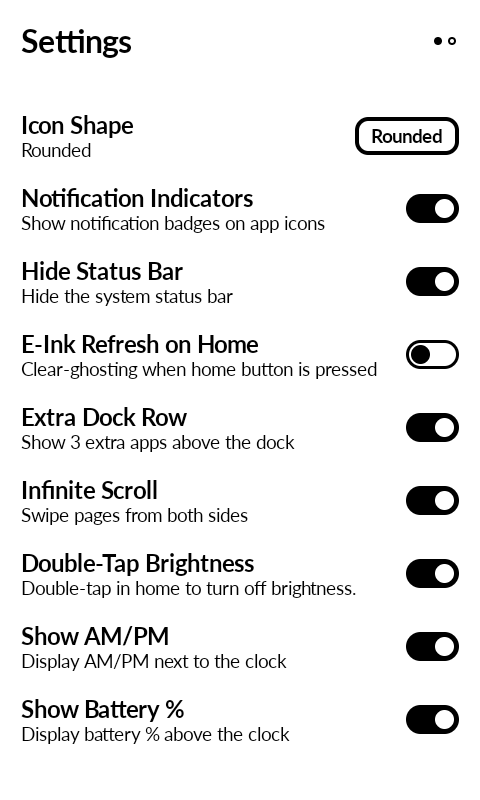
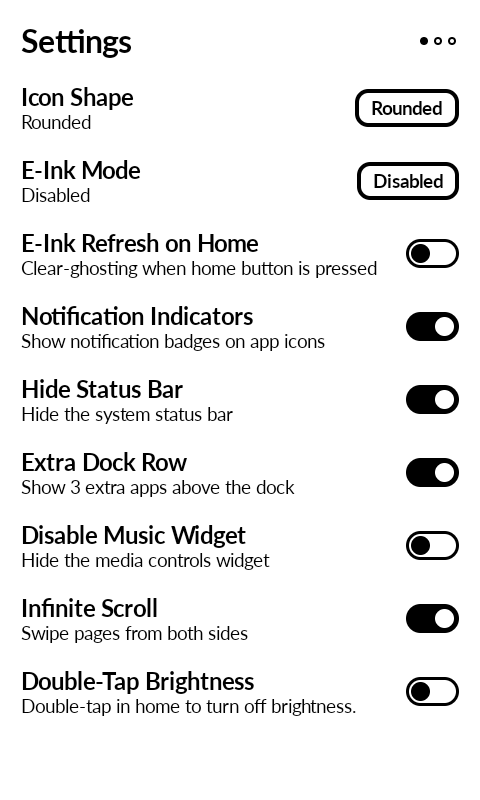
Release v1.2
- Clock Format & Date Format settings (replaces Show AM/PM toggle)
- Home button now dismisses open bottom sheets
- Disable Music Widget setting
- Bundled icons for Discord and Libro.fm
- Site, version (code 3 / name 1.2), and APK name updated

Changed region(s): [[0.0312, 0.0938, 0.7812, 0.9375], [0.7188, 0.0938, 0.9688, 0.9375], [0.875, 0.0312, 0.9062, 0.0625]]

diff --git a/app/src/main/java/com/gezimos/katapult/ui/SettingsScreen.kt b/app/src/main/java/com/gezimos/katapult/ui/SettingsScreen.kt
@@ -53,6 +53,19 @@ import com.gezimos.katapult.util.EinkHelper
 import com.gezimos.katapult.util.IconUtility
 import kotlin.math.abs
 
+// "system" follows the device setting/locale; everything else is a SimpleDateFormat pattern.
+private val ClockFormats = listOf("system", "HH:mm", "hh:mm a", "h:mm a", "h:mm")
+private val DateFormats = listOf("system", "EEE, MMM d", "EEEE, MMMM d", "MMMM d, yyyy", "M/d/yyyy", "yyyy-MM-dd")
+
+private fun nextOf(options: List<String>, current: String): String {
+    val i = options.indexOf(current)
+    return options[(i + 1) % options.size]
+}
+
+private fun formatLabel(pattern: String): String =
+    if (pattern == "system") "System"
+    else java.text.SimpleDateFormat(pattern, java.util.Locale.getDefault()).format(java.util.Date())
+
 @Composable
 fun SettingsScreen(viewModel: MainViewModel) {
     val context = LocalContext.current
@@ -65,7 +78,8 @@ fun SettingsScreen(viewModel: MainViewModel) {
     }
 
     var notificationIndicators by remember { mutableStateOf(prefs.notificationIndicators) }
-    var showAmPm by remember { mutableStateOf(prefs.showAmPm) }
+    var clockFormat by remember { mutableStateOf(prefs.clockFormat) }
+    var dateFormat by remember { mutableStateOf(prefs.dateFormat) }
     var showBattery by remember { mutableStateOf(prefs.showBattery) }
     var roundedIcons by remember { mutableStateOf(prefs.roundedIcons) }
     var hideStatusBar by remember { mutableStateOf(prefs.hideStatusBar) }
@@ -73,6 +87,7 @@ fun SettingsScreen(viewModel: MainViewModel) {
     var einkHelperMode by remember { mutableIntStateOf(prefs.einkHelperMode) }
     var doubleTapBrightness by remember { mutableStateOf(prefs.doubleTapBrightness) }
     var homeExtraRow by remember { mutableStateOf(prefs.homeExtraRow) }
+    var disableMusicWidget by remember { mutableStateOf(prefs.disableMusicWidget) }
     var infiniteScroll by remember { mutableStateOf(prefs.infiniteScroll) }
     var showKatapultIcon by remember { mutableStateOf(prefs.showKatapultIcon) }
     var hideAppNames by remember { mutableStateOf(prefs.hideAppNames) }
@@ -231,6 +246,17 @@ fun SettingsScreen(viewModel: MainViewModel) {
             }
             add {
                 SettingsToggleRow(
+                    title = stringResource(R.string.disable_music_widget),
+                    description = stringResource(R.string.disable_music_widget_desc),
+                    checked = disableMusicWidget,
+                    onCheckedChange = {
+                        disableMusicWidget = it
+                        prefs.disableMusicWidget = it
+                    },
+                )
+            }
+            add {
+                SettingsToggleRow(
                     title = stringResource(R.string.infinite_scroll),
                     description = stringResource(R.string.infinite_scroll_desc),
                     checked = infiniteScroll,
@@ -252,13 +278,24 @@ fun SettingsScreen(viewModel: MainViewModel) {
                 )
             }
             add {
-                SettingsToggleRow(
-                    title = stringResource(R.string.show_ampm),
-                    description = stringResource(R.string.show_ampm_desc),
-                    checked = showAmPm,
-                    onCheckedChange = {
-                        showAmPm = it
-                        prefs.showAmPm = it
+                SettingsCycleRow(
+                    title = stringResource(R.string.clock_format),
+                    description = formatLabel(clockFormat),
+                    onClick = {
+                        clockFormat = nextOf(ClockFormats, clockFormat)
+                        prefs.clockFormat = clockFormat
+                        viewModel.updateClock()
+                    },
+                )
+            }
+            add {
+                SettingsCycleRow(
+                    title = stringResource(R.string.date_format),
+                    description = formatLabel(dateFormat),
+                    onClick = {
+                        dateFormat = nextOf(DateFormats, dateFormat)
+                        prefs.dateFormat = dateFormat
+                        viewModel.updateClock()
                     },
                 )
             }

diff --git a/app/src/main/java/com/gezimos/katapult/util/PrefsManager.kt b/app/src/main/java/com/gezimos/katapult/util/PrefsManager.kt
@@ -94,9 +94,15 @@ class PrefsManager(context: Context) {
         get() = prefs.getBoolean(KEY_NOTIFICATION_INDICATORS, true)
         set(value) = prefs.edit().putBoolean(KEY_NOTIFICATION_INDICATORS, value).apply()
 
-    var showAmPm: Boolean
-        get() = prefs.getBoolean(KEY_SHOW_AMPM, true)
-        set(value) = prefs.edit().putBoolean(KEY_SHOW_AMPM, value).apply()
+    // SimpleDateFormat pattern, or "system" to follow the device's 12/24h setting.
+    var clockFormat: String
+        get() = prefs.getString(KEY_CLOCK_FORMAT, "system") ?: "system"
+        set(value) = prefs.edit().putString(KEY_CLOCK_FORMAT, value).apply()
+
+    // SimpleDateFormat pattern, or "system" for the locale long date.
+    var dateFormat: String
+        get() = prefs.getString(KEY_DATE_FORMAT, "system") ?: "system"
+        set(value) = prefs.edit().putString(KEY_DATE_FORMAT, value).apply()
 
     var showBattery: Boolean
         get() = prefs.getBoolean(KEY_SHOW_BATTERY, false)
@@ -133,6 +139,10 @@ class PrefsManager(context: Context) {
     var homeExtraRow: Boolean
         get() = prefs.getBoolean(KEY_HOME_EXTRA_ROW, false)
         set(value) = prefs.edit().putBoolean(KEY_HOME_EXTRA_ROW, value).apply()
+
+    var disableMusicWidget: Boolean
+        get() = prefs.getBoolean(KEY_DISABLE_MUSIC_WIDGET, false)
+        set(value) = prefs.edit().putBoolean(KEY_DISABLE_MUSIC_WIDGET, value).apply()
 
     var showKatapultIcon: Boolean
         get() = prefs.getBoolean(KEY_SHOW_KATAPULT_ICON, false)
@@ -208,7 +218,8 @@ class PrefsManager(context: Context) {
     companion object {
         private const val KEY_APP_ORDER = "app_order"
         private const val KEY_NOTIFICATION_INDICATORS = "notification_indicators"
-        private const val KEY_SHOW_AMPM = "show_ampm"
+        private const val KEY_CLOCK_FORMAT = "clock_format"
+        private const val KEY_DATE_FORMAT = "date_format"
         private const val KEY_SHOW_BATTERY = "show_battery"
         private const val KEY_ROUNDED_ICONS = "rounded_icons"
         private const val KEY_HIDE_STATUS_BAR = "hide_status_bar"
@@ -218,6 +229,7 @@ class PrefsManager(context: Context) {
         private const val KEY_LAST_BRIGHTNESS = "last_brightness"
         private const val KEY_INFINITE_SCROLL = "infinite_scroll"
         private const val KEY_HOME_EXTRA_ROW = "home_extra_row"
+        private const val KEY_DISABLE_MUSIC_WIDGET = "disable_music_widget"
         private const val KEY_WALLPAPER_PATH = "wallpaper_path"
         private const val KEY_HIDDEN_APPS = "hidden_apps"
         private const val KEY_RENAME_PREFIX = "rename_"

diff --git a/app/src/main/java/com/gezimos/katapult/MainViewModel.kt b/app/src/main/java/com/gezimos/katapult/MainViewModel.kt
@@ -21,6 +21,8 @@ import android.os.Looper
 import android.provider.Telephony
 import android.text.format.DateFormat
 import android.view.WindowInsetsController
+import java.text.SimpleDateFormat
+import java.util.Locale
 import com.gezimos.katapult.util.AudioWidgetHelper
 import androidx.compose.runtime.getValue
 import androidx.lifecycle.viewModelScope
@@ -53,6 +55,8 @@ class MainViewModel(application: Application) : AndroidViewModel(application) {
     var reorderMode by mutableStateOf(false)
     var reorderHighlightIndex by mutableIntStateOf(-1)
     var iconOverrideTarget by mutableStateOf<String?>(null)
+    var sheetDismissSignal by mutableIntStateOf(0)
+        private set
     var orderedApps by mutableStateOf(listOf<AppModel>())
         private set
     var currentPage by mutableIntStateOf(0)
@@ -128,7 +132,9 @@ class MainViewModel(application: Application) : AndroidViewModel(application) {
 
     fun updateClock() {
         val now = Date()
-        val fullTime = DateFormat.getTimeFormat(ctx).format(now)
+        val clockPattern = prefs.clockFormat
+        val fullTime = if (clockPattern == "system") DateFormat.getTimeFormat(ctx).format(now)
+            else SimpleDateFormat(clockPattern, Locale.getDefault()).format(now)
         clockTime = fullTime.replace(Regex("\\s*[AaPp][Mm]\\s*"), "").trim()
         val upper = fullTime.uppercase()
         clockAmPm = when {
@@ -136,7 +142,9 @@ class MainViewModel(application: Application) : AndroidViewModel(application) {
             upper.contains("PM") -> "PM"
             else -> null
         }
-        clockDate = DateFormat.getLongDateFormat(ctx).format(now)
+        val datePattern = prefs.dateFormat
+        clockDate = if (datePattern == "system") DateFormat.getLongDateFormat(ctx).format(now)
+            else SimpleDateFormat(datePattern, Locale.getDefault()).format(now)
 
         val alarmManager = ctx.getSystemService(Context.ALARM_SERVICE) as AlarmManager
         val info = alarmManager.nextAlarmClock
@@ -204,6 +212,11 @@ class MainViewModel(application: Application) : AndroidViewModel(application) {
         if (reorderMode) finishReorder()
         if (target == Screen.ALL_APPS) currentPage = 0
         screen = target
+    }
+
+    /** Bumps a signal observed by every open BottomSheet so they dismiss themselves. */
+    fun dismissAllSheets() {
+        sheetDismissSignal++
     }
 
 

diff --git a/docs/index.html b/docs/index.html
@@ -37,7 +37,7 @@
             <h1>A simple launcher for the <strong>Mudita Kompakt</strong></h1>
             <p class="subtitle">Similar to the default launcher, but with notification indicators, app re-ordering, and customizable home screen shortcuts.</p>
             <div class="hero-actions">
-                <a href="https://github.com/gezimos/Katapult/releases/download/v1.1/katapult-v1.1-release.apk" class="btn">Download APK</a>
+                <a href="https://github.com/gezimos/Katapult/releases/download/v1.2/katapult-v1.2-release.apk" class="btn">Download APK</a>
                 <a href="https://github.com/gezimos/Katapult/releases" class="btn">All Releases</a>
                 <a href="https://github.com/gezimos/Katapult" class="btn">Source Code</a>
             </div>
@@ -102,7 +102,7 @@
                 </div>
                 <div class="card">
                     <h3>Battery &amp; Clock</h3>
-                    <p>Battery percentage with level icon, alarm indicator, AM/PM display.</p>
+                    <p>Battery percentage with level icon, alarm indicator, selectable clock &amp; date formats.</p>
                 </div>
                 <div class="card">
                     <h3>Simple Wallpaper</h3>
@@ -207,7 +207,7 @@
                 </details>
                 <details>
                     <summary>Can I change date/clock formats?</summary>
-                    <p>No. It follows the system format. Change it in Android Settings.</p>
+                    <p>Yes. In Settings, cycle <strong>Clock Format</strong> (System, 24-hour, or 12-hour with/without AM/PM) and <strong>Date Format</strong> (System, weekday, long, numeric, or ISO). Leave them on System to follow Android.</p>
                 </details>
                 <details>
                     <summary>Can I reorder apps?</summary>

diff --git a/app/src/main/java/com/gezimos/katapult/ui/HomeScreen.kt b/app/src/main/java/com/gezimos/katapult/ui/HomeScreen.kt
@@ -234,7 +234,7 @@ fun HomeScreen(viewModel: MainViewModel, imagePicker: ActivityResultLauncher<Str
                         color = Color.Black,
                         modifier = Modifier,
                     )
-                    if (viewModel.clockAmPm != null && viewModel.prefs.showAmPm) {
+                    if (viewModel.clockAmPm != null) {
                         Spacer(Modifier.width(4.dp))
                         Text(
                             text = viewModel.clockAmPm!!,
@@ -267,7 +267,7 @@ fun HomeScreen(viewModel: MainViewModel, imagePicker: ActivityResultLauncher<Str
             }
 
             // Music widget - aligned with app icon edges
-            if (viewModel.mediaInfo != null) {
+            if (viewModel.mediaInfo != null && !viewModel.prefs.disableMusicWidget) {
                 @Suppress("UnusedBoxWithConstraintsScope")
                 androidx.compose.foundation.layout.BoxWithConstraints(
                     modifier = Modifier

diff --git a/app/src/main/java/com/gezimos/katapult/ui/BottomSheet.kt b/app/src/main/java/com/gezimos/katapult/ui/BottomSheet.kt
@@ -29,6 +29,7 @@ import androidx.compose.foundation.layout.padding
 import androidx.compose.runtime.Composable
 import androidx.compose.runtime.CompositionContext
 import androidx.compose.runtime.DisposableEffect
+import androidx.compose.runtime.LaunchedEffect
 import androidx.compose.runtime.SideEffect
 import androidx.compose.runtime.getValue
 import androidx.compose.runtime.mutableStateOf
@@ -124,6 +125,15 @@ fun BottomSheet(
 
     SideEffect {
         sheetDialog.updateOnDismiss(onDismiss)
+    }
+
+    // Dismiss when the shared signal bumps (e.g. Home button press). Skip the initial
+    // value so a sheet opened after a prior signal bump isn't instantly closed.
+    val dismissSignal = LocalSheetDismissSignal.current
+    val initialSignal = remember { dismissSignal }
+    val latestOnDismiss by rememberUpdatedState(onDismiss)
+    LaunchedEffect(dismissSignal) {
+        if (dismissSignal != initialSignal) latestOnDismiss()
     }
 }
 

diff --git a/app/src/main/java/com/gezimos/katapult/util/IconUtility.kt b/app/src/main/java/com/gezimos/katapult/util/IconUtility.kt
@@ -52,6 +52,9 @@ object IconUtility {
         "com.android.documentsui" to R.drawable.files,
         "de.danoeh.antennapod" to R.drawable.ap,
         "dev.octoshrimpy.quik" to R.drawable.sms,
+        "com.message.ink" to R.drawable.sms,
+        "com.discord" to R.drawable.discord,
+        "fm.libro.librofm" to R.drawable.librofm,
         "org.schabi.newpipe" to R.drawable.newpipe,
         "org.fossify.musicplayer" to R.drawable.music,
         "org.oxycblt.auxio" to R.drawable.music,
@@ -113,6 +116,8 @@ object IconUtility {
         BundledIcon(R.drawable.sudoku, "sudoku", "Sudoku"),
         BundledIcon(R.drawable.video, "video", "Video"),
         BundledIcon(R.drawable.einkbro, "einkbro", "Einkbro"),
+        BundledIcon(R.drawable.discord, "discord", "Discord"),
+        BundledIcon(R.drawable.librofm, "librofm", "Libro.fm"),
     )
 
     private fun resolveBundled(resName: String): Int? =

diff --git a/app/src/main/java/com/gezimos/katapult/ui/Components.kt b/app/src/main/java/com/gezimos/katapult/ui/Components.kt
@@ -135,6 +135,8 @@ fun Modifier.dashedDotBorder(strokeWidth: Dp = 2.dp, isRounded: Boolean, outset:
 }
 val LocalIconShape = compositionLocalOf<Shape> { CircleShape }
 val LocalSmallIconShape = compositionLocalOf<Shape> { CircleShape }
+/** Incremented to signal all open bottom sheets to dismiss (e.g. on Home press). */
+val LocalSheetDismissSignal = compositionLocalOf { 0 }
 
 @Composable
 fun AppIconCircle(bitmap: Bitmap?, size: Dp, borderWidth: Dp = 2.5.dp, shape: Shape = LocalIconShape.current) {

diff --git a/app/src/main/java/com/gezimos/katapult/ui/App.kt b/app/src/main/java/com/gezimos/katapult/ui/App.kt
@@ -28,6 +28,7 @@ fun App(
         LocalIconShape provides iconShape,
         LocalSmallIconShape provides smallShape,
         LocalBadgeShape provides badgeShape,
+        LocalSheetDismissSignal provides viewModel.sheetDismissSignal,
     ) {
         when (viewModel.screen) {
             Screen.ONBOARDING -> OnboardingScreen(viewModel)

diff --git a/app/src/main/java/com/gezimos/katapult/MainActivity.kt b/app/src/main/java/com/gezimos/katapult/MainActivity.kt
@@ -86,6 +86,7 @@ class MainActivity : ComponentActivity() {
     override fun onNewIntent(intent: Intent) {
         super.onNewIntent(intent)
         overridePendingTransition(0, 0)
+        viewModel.dismissAllSheets()
         viewModel.navigateTo(Screen.HOME)
 
         val savedMode = viewModel.prefs.einkHelperMode

diff --git a/CHANGELOG.md b/CHANGELOG.md
@@ -2,6 +2,17 @@
 
 All notable changes to Katapult are documented here.
 
+## [1.2]
+
+### Added
+- **Clock Format** setting — cycle the home clock between System, `20:24` (24-hour), `08:24 PM`, `8:24 PM`, and `8:24`. Replaces the old Show AM/PM toggle; the AM/PM suffix now appears automatically for the 12-hour formats that include it.
+- **Date Format** setting — cycle the home date between System (locale long date), `Mon, Jun 8`, `Monday, June 8`, `June 8, 2026`, `6/8/2026`, and `2026-06-08`.
+- **Disable Music Widget** setting — hides the home-screen music widget.
+- Bundled icons for Discord and Libro.fm.
+
+### Fixed
+- The Home button now dismisses any open bottom sheet (menu, app picker, hidden apps, app context menu, rename, change icon, reset confirm) — previously only Back closed them.
+
 ## [1.1]
 
 ### Added
